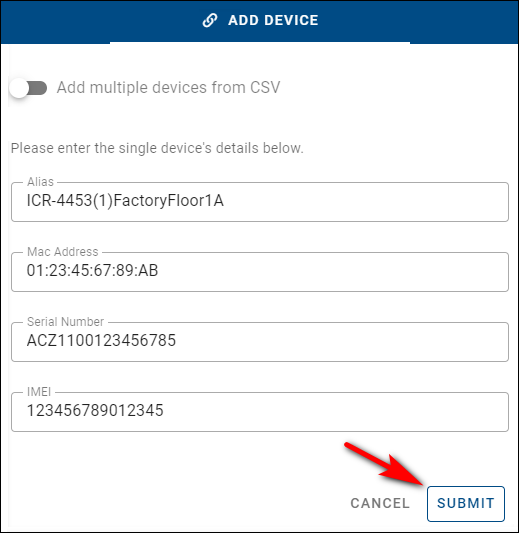
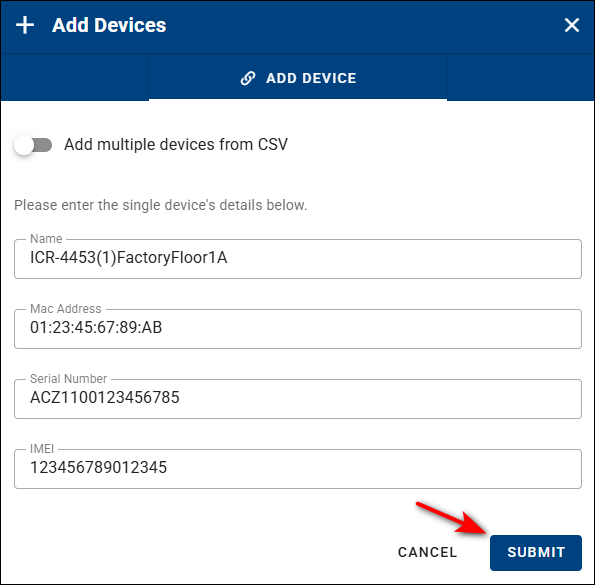
Fixie for adding devices Alias -> name.

Changed region(s): [[0.0, 0.03, 1.0, 1.0], [0.0, 0.2101, 0.5857, 0.3002]]

diff --git a/src/gen3/docs/adding-devices/add-a-device/README.md b/src/gen3/docs/adding-devices/add-a-device/README.md
@@ -45,7 +45,7 @@
 
 **3. Fill out the "Add Device" form with the following information:**
 
-- **Alias:**
+- **Name:**
   Enter a human-friendly name to help identify the device later. _This field is optional._
 
 - **MAC Address:**
